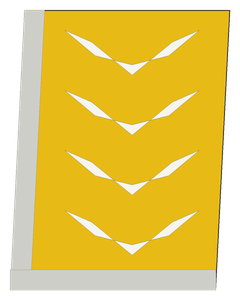
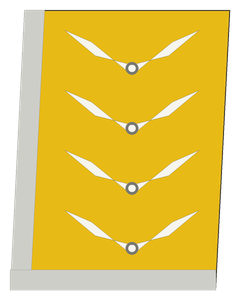
the officer gull counts were guesses; now they are checked
The two scans were too small to count from, so Leutnant 1 and
Oberleutnant 2 went in as the standard pattern rather than as anything
read off a source, and the script said so. Patrick pointed at the
Wikipedia article's collar tab drawings, which are large enough:

  Unteroffizier  1   flat braid, no wreath
  Feldwebel      3   flat braid
  Oberfeldwebel  4   flat braid
  Leutnant       1   oak-leaf wreath, twisted silver cord
  Oberleutnant   2   wreath and cord
  Hauptmann      3   wreath and cord

The guesses were right. They are now recorded as checked rather than
assumed, which is the part that matters.

Those drawings also confirm the yellow: the Oberfeldwebel tab is shown in
the Fliegertruppe's yellow, which is what a flying man wore.

One detail taken from them: every gull carries a small ring at its
centre, and it survives down at the 46 pixels the Room shows these at,
so it is drawn.

Claude-Session: https://claude.ai/code/session_01BAE9xGb5t5aTKcprx9FbY2

diff --git a/dev/make_lw_badges.py b/dev/make_lw_badges.py
@@ -31,23 +31,26 @@ Hauptgefreiter has four and no braid. It is drawn here.
 Unterfeldwebel, at two gulls, is on the plate but is not in the Room's
 ladder, so it is not drawn.
 
-OFFICER PATCHES, AND WHAT IS AND IS NOT KNOWN FROM THE SOURCES
+OFFICER PATCHES
 
-A second reference, "German Air Force: Insignia of Rank", gives the
-company officers. It settles the STRUCTURE beyond doubt: a patch edged
-all round in twisted silver cord, an oak-leaf spray across the bottom,
-and gulls above it. Nothing like the NCO pattern, which has flat braid on
-two edges and no wreath.
+Two scans were too small to count the officer gulls from, so those
+counts started as the standard pattern rather than as anything read off a
+source. They have since been CHECKED against the collar tab drawings on
+the Wikipedia article "Ranks and insignia of the Luftwaffe (1935-1945)",
+fetched at 500px, and they were right:
 
-It does NOT settle the COUNT. That scan is 675 pixels wide and the
-patches are a few pixels each; magnifying them only interpolates. What is
-legible in the same cells is the shoulder boards, and those confirm the
-order: Leutnant no pip, Oberleutnant one, Hauptmann two.
+    Unteroffizier   1 gull    flat braid, no wreath
+    Feldwebel       3 gulls   flat braid
+    Oberfeldwebel   4 gulls   flat braid
+    Leutnant        1 gull    oak-leaf wreath, twisted silver cord
+    Oberleutnant    2 gulls   wreath and cord
+    Hauptmann       3 gulls   wreath and cord
 
-So the gull counts below - Leutnant 1, Oberleutnant 2 - are taken from
-the standard pattern and not from either scan, and they are one number
-each to change if a better plate turns up. Everything else about these
-two is drawn from what the reference actually shows.
+Those drawings also confirm the yellow: the Oberfeldwebel tab is shown in
+the Fliegertruppe's yellow, which is what a flying man wore.
+
+Hauptmann is still not drawn. It is a command in this Room, reached
+through cmode, not a rung anybody is promoted to.
 """
 import argparse, os
 
@@ -91,6 +94,13 @@ def gull(d, cx, cy, span, thick):
         (cx - half * 0.60, cy - rise + thick * 1.15),
     ]
     d.polygon(pts, fill=GULL, outline=GULL_ED)
+    # the small ring at the centre of each gull, which the reference
+    # drawings all carry and which is the one detail still legible when
+    # the patch is down at the 46 pixels the Room shows it at
+    r = thick * 0.62
+    d.ellipse([cx - r, cy + tip_drop * 0.6 + thick * 0.35 - r,
+               cx + r, cy + tip_drop * 0.6 + thick * 0.35 + r],
+              fill=None, outline=GULL_ED, width=max(1, int(thick * 0.28)))
 
 
 def wreath(d, cx, cy, span):
